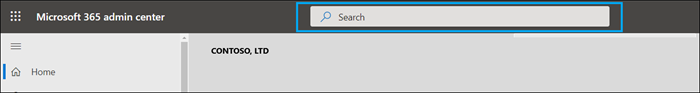
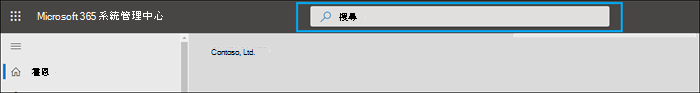
commit translated contents

diff --git a/microsoft-365/compliance/protect-information.md b/microsoft-365/compliance/protect-information.md
@@ -15,12 +15,12 @@ search.appverid:
 - MET150
 ms.assetid: a6ef28a4-2447-4b43-aae2-f5af6d53c68e
 description: 實施 Microsoft 資訊保護 (MIP) 功能，方法是使用 Microsoft 365 符合性，協助您探索、分類及保護任何地方生活或傳播的敏感資訊。
-ms.openlocfilehash: d69395523cb656d23e44b577f01338eb78c7b386
-ms.sourcegitcommit: 1423e08a02d30f0a2b993fb99325c3f499c31787
+ms.openlocfilehash: 66938804a119022b6b44664ecd8f040e3c56123f
+ms.sourcegitcommit: 15be7822220041c25fc52565f1c64d252e442d89
 ms.translationtype: MT
 ms.contentlocale: zh-TW
-ms.lasthandoff: 09/25/2020
-ms.locfileid: "48277528"
+ms.lasthandoff: 09/28/2020
+ms.locfileid: "48295465"
 ---
 # <a name="microsoft-information-protection-in-microsoft-365"></a>Microsoft 365 中的 microsoft 資訊保護
 
@@ -50,10 +50,10 @@ MIP 功能隨附于 Microsoft 365 規範中，並提供您用來 [瞭解資料](
 
 |功能|它會解決什麼問題？|開始使用|
 |:------|:------------|---------------------|:----------------------------|
-|[敏感性標籤](sensitivity-labels.md)| 跨應用程式、服務和裝置的單一解決方案，以標籤及保護您的組織內部和外部的資料 <br /><br />範例案例：套用 [和查看 POWER BI 中的敏感度標籤，並在匯出資料時加以保護](https://docs.microsoft.com/power-bi/admin/service-security-data-protection-overview)|[ 開始使用敏感度標籤](get-started-with-sensitivity-labels.md) |
+|[敏感性標籤](sensitivity-labels.md)| 跨應用程式、服務和裝置的單一解決方案，以標籤及保護您的組織內部和外部的資料 <br /><br />範例案例：套用 [和查看 POWER BI 中的敏感度標籤，並在匯出資料時加以保護](https://docs.microsoft.com/power-bi/admin/service-security-apply-data-sensitivity-labels)|[ 開始使用敏感度標籤](get-started-with-sensitivity-labels.md) |
 |[Azure 資訊保護統一標籤用戶端](https://docs.microsoft.com/azure/information-protection/rms-client/aip-clientv2)| 針對 Windows 電腦，擴充敏感度標籤以取得其他功能，包括標記及保護所有檔案類型的檔案 Explorer 和 PowerShell<br /><br /> 範例其他功能： [Azure 資訊保護統一標籤用戶端的自訂](https://docs.microsoft.com/azure/information-protection/rms-client/clientv2-admin-guide-customizations)設定| [Azure 資訊保護統一標籤用戶端管理員指南](https://docs.microsoft.com/azure/information-protection/rms-client/clientv2-admin-guide)|
-|[雙重金鑰加密](double-key-encryption.md)| 在所有情況下，只有您可以解密受保護的內容或法規需求，您必須在地理界限內保留加密金鑰 | [部署雙重金鑰加密](double-key-encryption.md)|
-|[Office 365 郵件加密](ome.md) (OME) | 加密傳送給任何裝置上任何使用者的電子郵件訊息和附加檔，因此只有授權的收件者可以讀取以電子郵件傳送的資訊  <br /><br />範例案例： [撤銷由高級郵件加密所加密的電子郵件](revoke-ome-encrypted-mail.md) | [開始使用 Office 365 郵件加密](set-up-new-message-encryption-capabilities.md)|
+|[雙重金鑰加密](double-key-encryption.md)| 在所有情況下，只有您可以解密受保護的內容或法規需求，您必須在地理界限內保留加密金鑰 | [部署雙重金鑰加密](double-key-encryption.md#deploy-dke)|
+|[Office 365 郵件加密](ome.md) (OME) | 加密傳送給任何裝置上任何使用者的電子郵件訊息和附加檔，因此只有授權的收件者可以讀取以電子郵件傳送的資訊  <br /><br />範例案例： [撤銷由高級郵件加密所加密的電子郵件](revoke-ome-encrypted-mail.md) | [設定全新的郵件加密功能](set-up-new-message-encryption-capabilities.md)|
 |[使用客戶金鑰的服務加密](customer-key-overview.md) | 防止未經授權的系統或人員查看資料，並補充 Microsoft 資料中心的 BitLocker 磁片加密。 | [設定 Office 365 客戶金鑰](customer-key-set-up.md)|
 |[SharePoint Information Rights Management (IRM) ](set-up-irm-in-sp-admin-center.md#irm-enable-sharepoint-document-libraries-and-lists)|保護 SharePoint 清單和文件庫，讓使用者在簽出檔時，已下載的檔案受到保護，所以只有經過授權的人員才能根據您指定的原則來查看和使用該檔案。 | [Set up Information Rights Management (IRM) in SharePoint admin center](set-up-irm-in-sp-admin-center.md)|
 [版權管理連接器](https://docs.microsoft.com/azure/information-protection/deploy-rms-connector) |保護-僅適用于使用 Exchange 或 SharePoint 伺服器的現有內部部署，或執行 Windows Server 和檔案分類基礎結構的檔案伺服器 (FCI)  | [部署 RMS 連接器的步驟](https://docs.microsoft.com/azure/information-protection/deploy-rms-connector#steps-to-deploy-the-rms-connector)

diff --git a/microsoft-365/compliance/compliance-manager-templates-list.md b/microsoft-365/compliance/compliance-manager-templates-list.md
@@ -14,12 +14,12 @@ search.appverid:
 - MOE150
 - MET150
 description: Microsoft 合規性管理員提供範本，以建立與國家、地區和行業法規、標準及法律相關的評估。
-ms.openlocfilehash: 548844e3850757484f9ee1d455d6ecd18bcb939c
-ms.sourcegitcommit: c083602dda3cdcb5b58cb8aa070d77019075f765
+ms.openlocfilehash: 9bce625bd8733570a62e3b5f7685cace84005b69
+ms.sourcegitcommit: 15be7822220041c25fc52565f1c64d252e442d89
 ms.translationtype: MT
 ms.contentlocale: zh-TW
-ms.lasthandoff: 09/22/2020
-ms.locfileid: "48204345"
+ms.lasthandoff: 09/28/2020
+ms.locfileid: "48294793"
 ---
 # <a name="compliance-manager-templates-list"></a>合規性管理員範本清單
 
@@ -134,13 +134,8 @@ ms.locfileid: "48204345"
 - 印尼-法律 11/2008 (Microsoft 365) 
 - 印尼-Peraturan Pemerintah No 82 Tahun 2012-政府法規-資料保護法規 (Microsoft 365) 
 - [IRS-P1075](offering-irs-1075.md) (Microsoft 365) 
-- ISO 15489 (Microsoft 365) 
-- [ISO 22301:2019](offering-iso-22301.md) (Microsoft 365) 
-- ISO 27005:2018 (Microsoft 365) 
 - [ISO 27017:2015](offering-iso-27017.md) (Microsoft 365) 
-- ISO 31000:2018 (Microsoft 365) 
 - [ISO/IEC 27018:2014](offering-iso-27018.md)
-- [ISO/IEC 27701:2019](offering-iso-27701.md) (Microsoft 365) 
 - 以色列隱私權保護 (將資料傳輸至國外) 法規 (Microsoft 365) 的資料庫
 - ITU-T 1052 Information Security Management Framework (Microsoft 365) 
 - 日本-在禁止未授權的電腦存取 (Microsoft 365) 時採取行動
